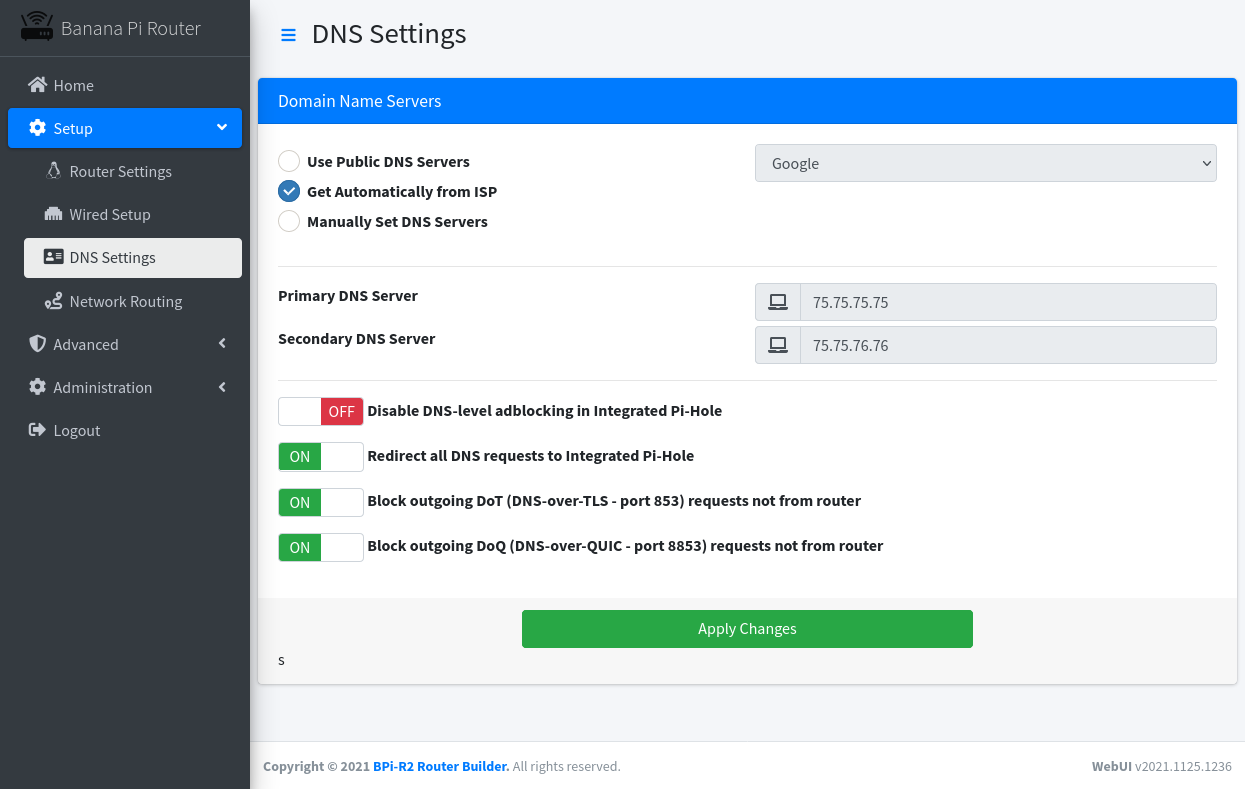
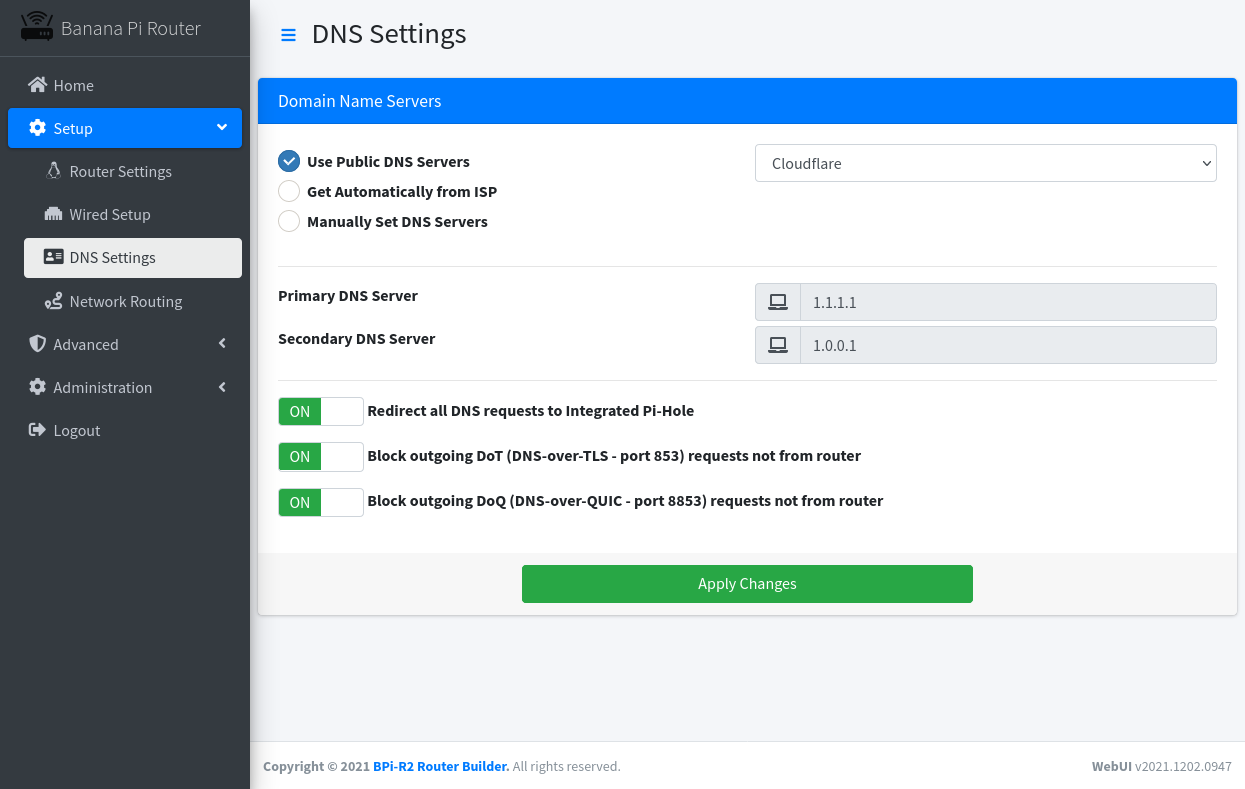
Updated WebUI Setup / DNS Settings

diff --git a/router/js/site-setup.js b/router/js/site-setup.js
@@ -34,15 +34,14 @@ function DNS_Submit()
 {
 	// Assemble the post data for the AJAX call:
 	postdata = {
-		'sid':       SID,
-		'action':    'dns',
-		'use_isp':   ($("[name=dns_server_opt]:checked").val()) == "isp" ? 'Y' : 'N',
-		'dns1':      $("#dns1").val(),
-		'dns2':      $("#dns2").val(),
-		'redirect':  $("#redirect_dns").prop("checked") ? "Y" : "N",
-		'block_dot': $("#block_dot").prop("checked") ? "Y" : "N",
-		'block_doq': $("#block_doq").prop("checked") ? "Y" : "N",
-		'disable':   $("#disable_pihole").prop("checked") ? "Y" : "N",
+		'sid':          SID,
+		'action':       'submit',
+		'use_isp':      ($("[name=dns_server_opt]:checked").val()) == "isp" ? 'Y' : 'N',
+		'dns1':         $("#dns1").val(),
+		'dns2':         $("#dns2").val(),
+		'redirect_dns': $("#redirect_dns").prop("checked") ? "Y" : "N",
+		'block_dot':    $("#block_dot").prop("checked") ? "Y" : "N",
+		'block_doq':    $("#block_doq").prop("checked") ? "Y" : "N",
 	};
 	//alert(JSON.stringify(postdata, null, 5)); return;
 
@@ -51,7 +50,7 @@ function DNS_Submit()
 	$(".alert_control").addClass("hidden");
 	$("#apply-modal").modal("show");
 	$.post("/setup/dns", postdata, function(data) {
-		if (data == "OK")
+		if (data.trim() == "OK")
 			document.location.reload(true);
 		else
 		{

diff --git a/router/includes/setup-dns.php b/router/includes/setup-dns.php
@@ -17,21 +17,14 @@ if (isset($_POST['action']))
 	if ($_POST['action'] == 'submit')
 	{
 		// Apply configuration file changes:
-		$config['use_isp']        = option('use_isp');
-		$config['dns1']           = option_ip('dns1');
-		$config['dns2']           = option_ip('dns2', true);
-		$config['redirect_dns']   = option('redirect');
-		$config['block_dot']      = option('block_dot');
-		$config['block_doq']      = option('block_doq');
-		$config['disable_pihole'] = option('disable');
-		#apply_file();
-
-		// Change the PiHole blocking status if it is requested:
-		if ((strpos(@shell_exec("/opt/bpi-r2-router-builder/helpers/router-helper.sh pihole status"), 'enabled') !== false) != ($config['disable_pihole'] == 'Y'))
-			@shell_exec('/opt/bpi-r2-router-builder/helpers/router-helper.sh pihole ' . ($config['disable_pihole'] = 'Y' ? 'disable' : 'enable'));
-
-		// Quit executing the script with an "OK" result code:
-		die("OK");
+		$options['use_isp']        = option('use_isp');
+		$options['dns1']           = option_ip('dns1');
+		$options['dns2']           = option_ip('dns2', true);
+		$options['redirect_dns']   = option('redirect_dns');
+		$options['block_dot']      = option('block_dot');
+		$options['block_doq']      = option('block_doq');
+		#echo '<pre>'; print_r($options); exit;
+		die(apply_file());
 	}
 	#################################################################################################
 	# Got here?  We need to return "invalid action" to user:
@@ -42,25 +35,23 @@ if (isset($_POST['action']))
 ###################################################################################################
 # Domain Name (DNS) Servers
 ###################################################################################################
-$current = array();
-$contents = @file("/etc/network/interfaces.d/wan");
-foreach (is_array($contents) ? $contents : array() as $line)
+$isp = $current = array();
+foreach (@file("/etc/dnsmasq.d/01-pihole.conf") as $line)
 {
-	if (preg_match("/nameserver (.*) >/", $line, $regex))
+	if (preg_match("/^server=(.*)/", $line, $regex))
 		$current[ count($current) ] = $regex[1];
-}
-$custom = !empty($current);
-if (empty($current))
-{
-	$contents = @file("/etc/resolv.conf");
-	foreach (is_array($contents) ? $contents : array() as $line)
-	{
-		if (preg_match("/nameserver (.*)/", $line, $regex))
-			$current[ count($current) ] = $regex[1];
-	}
 }
 $primary = empty($current[0]) ? '' : $current[0];
 $secondary = empty($current[1]) ? '' : $current[1];
+foreach (@file("/etc/resolv.conf") as $line)
+{
+	if (preg_match("/^nameserver (.*)/", $line, $regex))
+		$isp[ count($isp) ] = $regex[1];
+}
+#echo '<pre>$current = '; print_r($current); echo '$primary = ' . $primary . "\n" . '$secondary = ' . $secondary . "\n" . '$isp = '; print_r($isp); exit;
+$use_isp = (empty($isp[0]) || $primary == $isp[0]);
+if (!empty($isp[1]))
+	$use_isp |= ($secondary == $isp[1]);
 $providers = array(
 	array('Google', '8.8.8.8', '8.8.4.4'),
 	array('Cloudflare', '1.1.1.1', '1.0.0.1'),
@@ -103,11 +94,11 @@ echo '
 						<label for="dns_provider">Use Public DNS Servers</label>
 					</div>
 					<div class="icheck-primary">
-						<input type="radio" id="dns_isp" value="isp" name="dns_server_opt"', !$use_provider && empty($custom) ? ' checked="checked"' : '', '>
+						<input type="radio" id="dns_isp" value="isp" name="dns_server_opt"', !$use_provider && $use_isp ? ' checked="checked"' : '', '>
 						<label for="dns_isp">Get Automatically from ISP</label>
 					</div>
 					<div class="icheck-primary">
-						<input type="radio" id="dns_custom" value="custom" name="dns_server_opt"', !$use_provider && !empty($custom) ? ' checked="checked"' : '', '>
+						<input type="radio" id="dns_custom" value="custom" name="dns_server_opt"', !$use_provider && !$use_isp ? ' checked="checked"' : '', '>
 						<label for="dns_custom">Manually Set DNS Servers</label>
 					</div>
 				</div>
@@ -133,7 +124,7 @@ echo '
 					<div class="input-group-prepend">
 						<span class="input-group-text"><i class="fas fa-laptop"></i></span>
 					</div>
-					<input id="dns1" type="text" class="dns_address form-control" value="', $primary, '" data-inputmask="\'alias\': \'ip\'" data-mask', empty($custom) ? ' disabled="disabled"' : '', '>
+					<input id="dns1" type="text" class="dns_address form-control" value="', $primary, '"', empty($use_isp) ? ' disabled="disabled"' : '', '>
 				</div>
 			</div>
 		</div>
@@ -146,12 +137,11 @@ echo '
 					<div class="input-group-prepend">
 						<span class="input-group-text"><i class="fas fa-laptop"></i></span>
 					</div>
-					<input id="dns2" type="text" class="dns_address form-control"  value="', $secondary, '"data-inputmask="\'alias\': \'ip\'" data-mask', empty($custom) ? ' disabled="disabled"' : '', '>
+					<input id="dns2" type="text" class="dns_address form-control" value="', $secondary, '"', !$use_isp ? ' disabled="disabled"' : '', '>
 				</div>
 			</div>
 		</div>
 		<hr />
-		', checkbox("disable_pihole", "Disable DNS-level adblocking in Integrated Pi-Hole", false), '
 		', checkbox("redirect_dns", "Redirect all DNS requests to Integrated Pi-Hole"), '
 		', checkbox("block_dot", "Block outgoing DoT (DNS-over-TLS - port 853) requests not from router"), '
 		', checkbox("block_doq", "Block outgoing DoQ (DNS-over-QUIC - port 8853) requests not from router"), '
@@ -191,4 +181,4 @@ echo '
 ###################################################################################################
 # Close page
 ###################################################################################################
-site_footer('Init_DNS("' . $primary . '", "' . $secondary . '");');
+site_footer('Init_DNS("' . (!empty($isp[0]) ? $isp[0] : '') . '", "' . (!empty($isp[1]) ? $isp[1] : '') . '");');

diff --git a/router/includes/subs/site.php b/router/includes/subs/site.php
@@ -389,47 +389,52 @@ echo '
 #######################################################################################################
 function option($name, $allowed = "/^[Y|N]$/")
 {
+	global $options, $options_changed;
 	$tmp = isset($_POST[$name]) ? $_POST[$name] : '';
 	if (empty($tmp) || empty($allowed) || !preg_match($allowed, $tmp))
 		die('ERROR: Missing or invalid value for option "' . $name . '"!');
-	$options[$name] != !isset($options[$name]) || $options[$name] != $tmp;
+	$options_changed |= !isset($options[$name]) || $options[$name] != $tmp;
 	return $tmp;
 }
 
 function option_allowed($name, $allowed = array())
 {
+	global $options, $options_changed;
 	$tmp = isset($_POST[$name]) ? $_POST[$name] : '';
 	if (!isset($tmp) || !in_array($_POST[$name], $allowed))
 		die('ERROR: Missing or invalid value for option "' . $name . '"!');
-	$options[$name] != !isset($options[$name]) || $options[$name] != $tmp;
+	$options_changed |= !isset($options[$name]) || $options[$name] != $tmp;
 	return $tmp;
 }
 
 function option_range($name, $min, $max)
 {
+	global $options, $options_changed;
 	$tmp = isset($_POST[$name]) ? (int) $_POST[$name] : -99999999;
 	if ($tmp < $min || $tmp > $max)
 		die('ERROR: Missing or invalid value for option "' . $name . '"!');
-	$options[$name] != !isset($options[$name]) || $options[$name] != $tmp;
+	$options_changed |= !isset($options[$name]) || $options[$name] != $tmp;
 	return $tmp;
 }
 
 function option_ip($name, $empty = false)
 {
+	global $options, $options_changed;
 	$tmp = isset($_POST[$name]) ? $_POST[$name] : '';
 	if ($empty && empty($tmp))
 		return $tmp;
 	else if (!filter_var($tmp, FILTER_VALIDATE_IP, FILTER_FLAG_IPV4))
 		die('ERROR: Missing or invalid value for option "' . $name . '"!');
-	$options[$name] != !isset($options[$name]) || $options[$name] != $tmp;
+	$options_changed |= !isset($options[$name]) || $options[$name] != $tmp;
 	return $tmp;
 }
 
 function option_mac($name)
 {
+	global $options, $options_changed;
 	$tmp = isset($_POST[$name]) ? $_POST[$name] : '';
 	if (!filter_var($tmp, FILTER_VALIDATE_MAC))
 		die('ERROR: Missing or invalid value for option "' . $name . '"!');
-	$options[$name] != !isset($options[$name]) || $options[$name] != $tmp;
+	$options_changed |= !isset($options[$name]) || $options[$name] != $tmp;
 	return $tmp;
 }

diff --git a/router/includes/subs/advanced.php b/router/includes/subs/advanced.php
@@ -1,4 +1,6 @@
 <?php
+$options_changed = false;
+
 function parse_file()
 {
 	$file = '/etc/default/firewall';
@@ -15,22 +17,24 @@ function parse_file()
 function apply_file()
 {
 	global $options, $options_changed;
-	if (!$options_changed)
-		return;
+	#if (!$options_changed)
+	#	return;
 	$text = '';
 	foreach ($options as $name => $setting)
-		$text .= (!empty($setting) ? $name . '=' . $setting . "\n" : '');
+		$text .= (!empty($setting) ? $name . '=' . $setting . "\n" : $name);
 	#echo '<pre>'; echo $text; exit;
 	$handle = fopen("/tmp/firewall", "w");
 	fwrite($handle, $text);
 	fclose($handle);
-	echo @shell_exec("/opt/bpi-r2-router-builder/helpers/router-helper.sh firewall reload");
+	$options['use_isp'] = isset($options['use_isp']) ? $options['use_isp'] : 'N';
+	@shell_exec("/opt/bpi-r2-router-builder/helpers/router-helper.sh dns " . ($options['use_isp'] == 'Y' ? 'use_isp' : $options['dns1'] . ' ' . $options['dns2']));
+	return @shell_exec("/opt/bpi-r2-router-builder/helpers/router-helper.sh firewall reload");
 }
 
 function checkbox($name, $description, $default = true, $disabled_by = '')
 {
 	global $options;
-	$options[$name] = $checked = (!isset($options[$name]) ? $default : ($options[$name] == "Y"));
+	$checked = (!isset($options[$name]) ? $default : ($options[$name] == "Y"));
 	$enabled = (!empty($disabled_by) ? $options[$disabled_by] : true);
 	return '<p><input type="checkbox" id="' . $name . '" class="checkbox"' . ($checked ? ' checked="checked"' : '') . ' data-bootstrap-switch="" data-off-color="danger" data-on-color="success" ' . ($enabled ? '' : ' disabled="disabled"') . '> <strong id="' . $name . '_txt" ' . ($enabled ? '' : ' disabled="disabled"') . '>' . $description . '</strong></p>';
 }

diff --git a/router/includes/admin-debian.php b/router/includes/admin-debian.php
@@ -1,4 +1,6 @@
 <?php
+$disabled = ' disabled="disabled"';
+
 #################################################################################################
 # If action specified and invalid SID passed, force a reload of the page.  Otherwise:
 #################################################################################################
@@ -18,7 +20,6 @@ if (isset($_POST['action']))
 		$start_indent = 0;
 		$packages = array('good' => array(), 'hold' => array(), 'kept' => array());
 		$debian = array('list' => array('good' => '', 'hold' => '', 'kept' => ''));	
-		$disabled = ' disabled="disabled"';
 		$button = array(
 			'good' => '<a href="javascript:void(0);"><button type="button" class="btn btn-block btn-xs btn-success pkg-upgrade"' . $disabled . '>Upgrade</button></a>',
 			'hold' => '<a href="javascript:void(0);"><button type="button" class="btn btn-block btn-xs btn-danger pkg-held"' . $disabled . '>Held</button></a>',
@@ -182,7 +183,7 @@ echo '
 				<table class="table table-striped table-bordered table-sm">
 					<thead>
 						<tr>
-							<th width="2%"><input type="checkbox"', $installable ? ' checked="checked"' : '', '></th>
+							<th width="2%"><input type="checkbox"', $installable ? ' checked="checked"' : '', $disabled, '></th>
 							<th width="30%">Package Name</th>
 							<th width="25%">New Version</th>
 							<th width="25%">Old Version</th>
